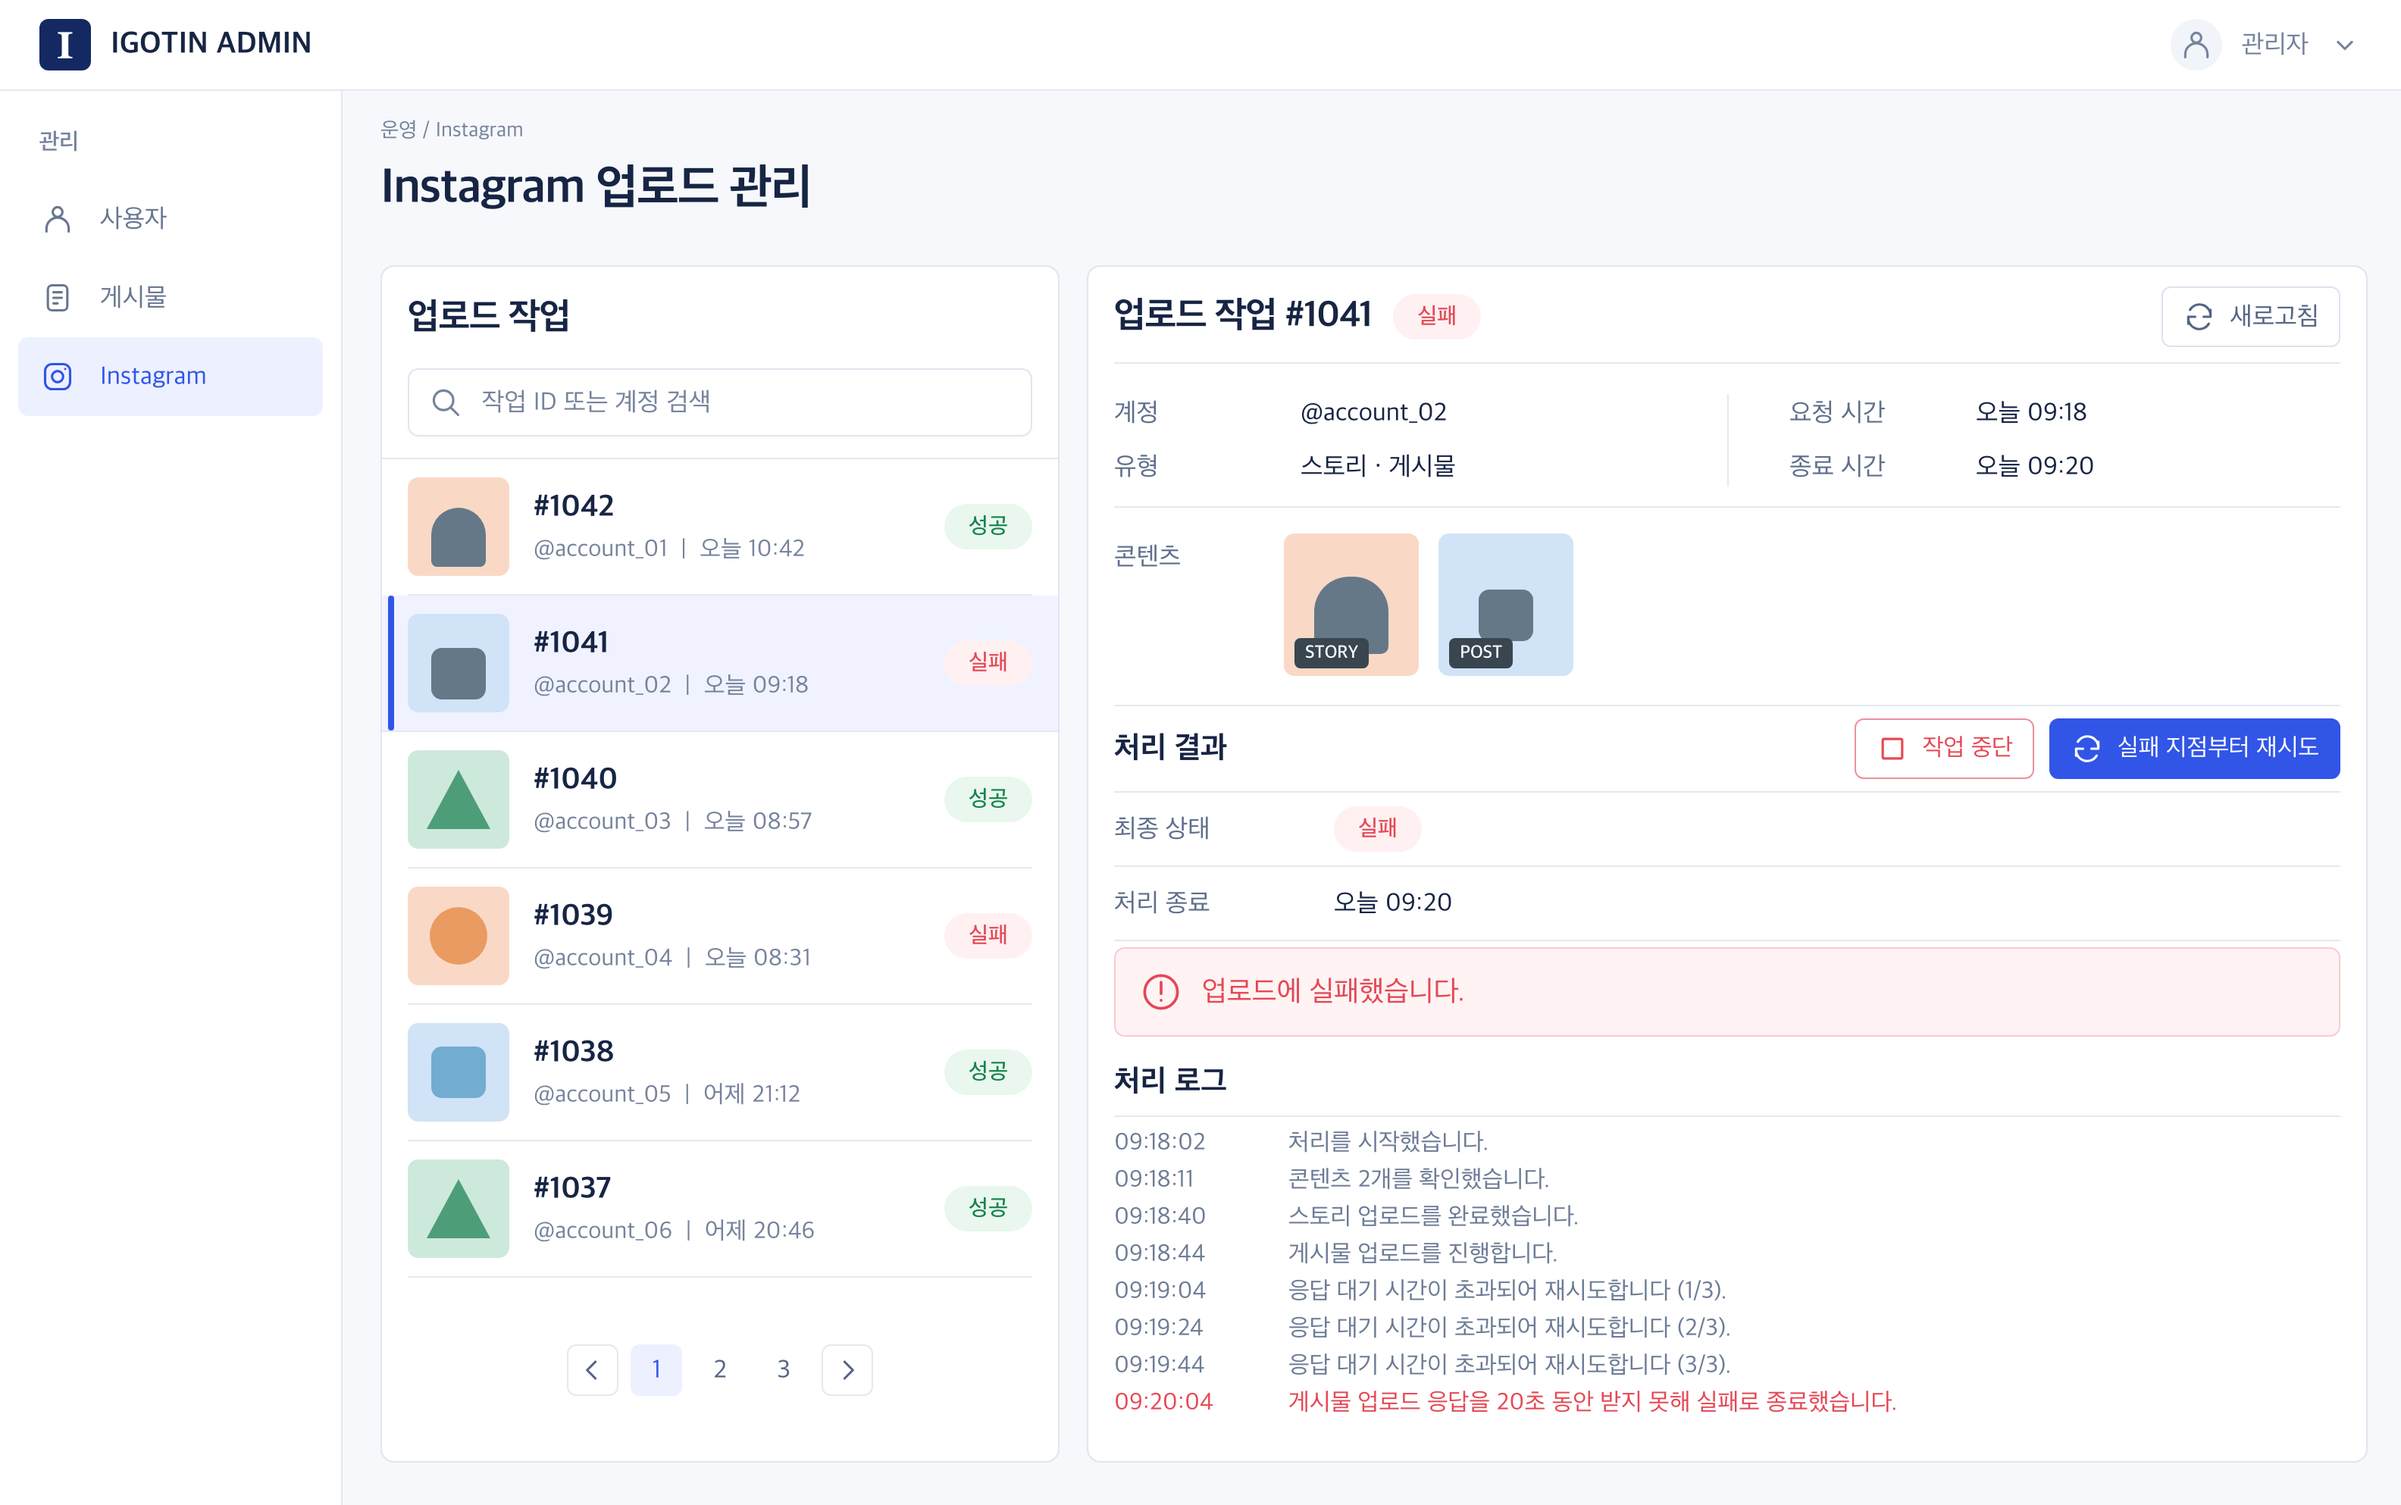
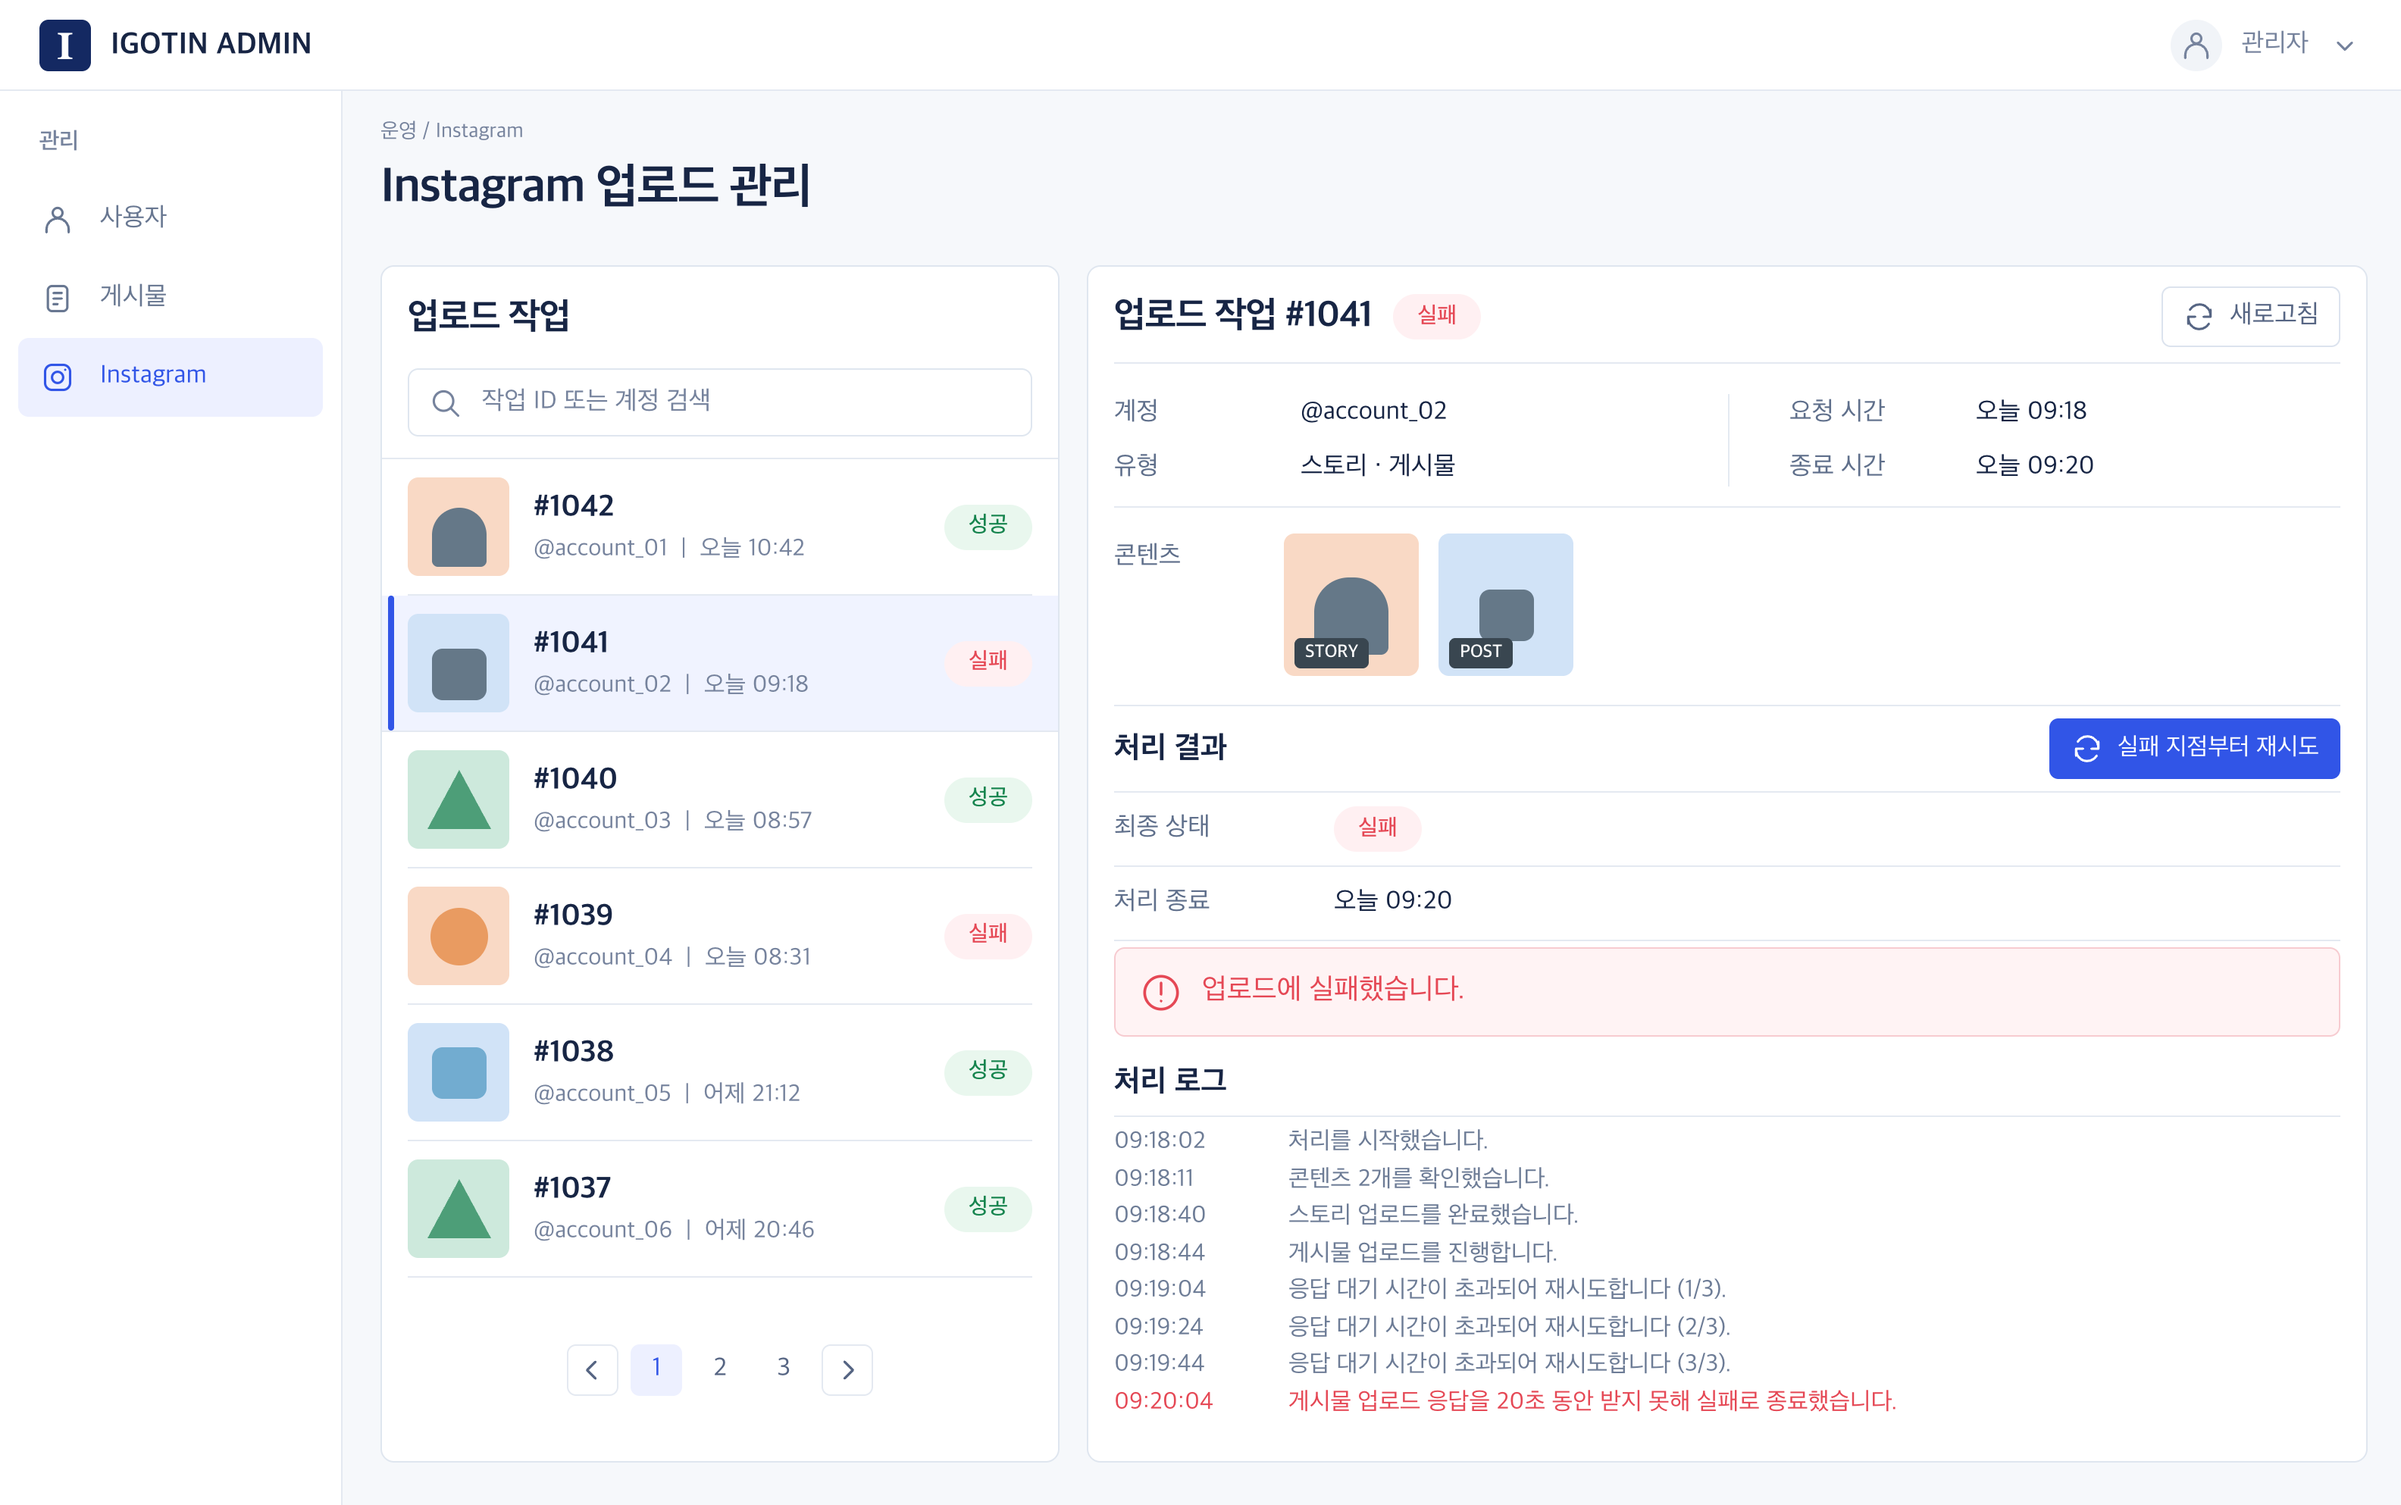
docs(profile): 소개와 포트폴리오 문구 및 Instagram 예시 정리

diff --git a/tools/portfolio/instagram-admin.html b/tools/portfolio/instagram-admin.html
@@ -69,7 +69,6 @@
     h3 { margin: 0; font-size: 20px; font-weight: 700; }
     .actions { display: flex; gap: 10px; }
     .actions button { font-size: 16px; }
-    .stop { color: var(--red); border-color: #ed9199; }
     .retry { color: #fff; border-color: var(--blue); background: var(--blue); }
     .result-row { display: grid; grid-template-columns: 145px 1fr; align-items: center; min-height: 49px; border-bottom: 1px solid var(--line); }
     .result-row .badge { justify-self: start; }
@@ -89,7 +88,6 @@
     <symbol id="instagram" viewBox="0 0 24 24"><rect x="3" y="3" width="18" height="18" rx="5"/><circle cx="12" cy="12" r="4"/><circle cx="17.5" cy="6.5" r=".8" fill="currentColor" stroke="none"/></symbol>
     <symbol id="search" viewBox="0 0 24 24"><circle cx="10.5" cy="10.5" r="7"/><path d="m16 16 5 5"/></symbol>
     <symbol id="refresh" viewBox="0 0 24 24"><path d="M20 7v5h-5M4 17v-5h5M5.2 7A8 8 0 0 1 20 12M4 12a8 8 0 0 0 14.8 5"/></symbol>
-    <symbol id="stop" viewBox="0 0 24 24"><rect x="5" y="5" width="14" height="14" rx="1"/></symbol>
     <symbol id="alert" viewBox="0 0 24 24"><circle cx="12" cy="12" r="10"/><path d="M12 6v7M12 17v.1"/></symbol>
     <symbol id="down" viewBox="0 0 24 24"><path d="m7 10 5 5 5-5"/></symbol>
     <symbol id="left" viewBox="0 0 24 24"><path d="m14 6-6 6 6 6"/></symbol>
@@ -109,7 +107,7 @@
         <div class="detail-head"><h2>업로드 작업 #1041</h2><span class="badge failure">실패</span><button><svg><use href="#refresh"/></svg>새로고침</button></div>
         <div class="metadata"><dl><dt>계정</dt><dd>@account_02</dd><dt>유형</dt><dd>스토리 · 게시물</dd></dl><dl><dt>요청 시간</dt><dd>오늘 09:18</dd><dt>종료 시간</dt><dd>오늘 09:20</dd></dl></div>
         <div class="content"><span class="content-label">콘텐츠</span><div class="previews"><div class="thumb peach"><span class="shape arch"></span><span class="preview-label">STORY</span></div><div class="thumb sky"><span class="shape"></span><span class="preview-label">POST</span></div></div></div>
-        <div class="section-head"><h3>처리 결과</h3><div class="actions after-only"><button class="stop"><svg><use href="#stop"/></svg>작업 중단</button><button class="retry"><svg><use href="#refresh"/></svg>실패 지점부터 재시도</button></div></div>
+        <div class="section-head"><h3>처리 결과</h3><div class="actions after-only"><button class="retry"><svg><use href="#refresh"/></svg>실패 지점부터 재시도</button></div></div>
         <div class="result-row"><dt>최종 상태</dt><span class="badge failure">실패</span></div><div class="result-row"><dt>처리 종료</dt><span>오늘 09:20</span></div>
         <div class="alert"><svg><use href="#alert"/></svg>업로드에 실패했습니다.</div>
         <section class="after-only"><h3 class="log-title">처리 로그</h3><div class="logs">

diff --git a/content/resume/_index.md b/content/resume/_index.md
@@ -42,7 +42,7 @@ template = "resume.html"
 <div class="resume-entry-content">
 
 - 북미 대학생 커뮤니티 <a href="https://www.linkedin.com/company/igotin">IGOTIN</a>에서 Kotlin과 Spring Boot 기반 백엔드 애플리케이션을 개발하고 AWS 환경에서 운영했습니다.
-- Instagram 업로드 자동화의 운영 문제를 제기하고 개선안 설계부터 배포까지 주도했습니다. 단일 HTTP 요청에 묶인 업로드를 `db-scheduler` 기반 단계별 백그라운드 작업으로 분리하고 상태 추적과 재시도, 중단 등 작업 제어 기능을 구현했습니다.
+- Instagram 업로드 자동화의 운영 문제를 제기하고 개선안 설계부터 배포까지 주도했습니다. 단일 HTTP 요청에 묶인 업로드를 `db-scheduler` 기반 단계별 백그라운드 작업으로 분리하고 상태 추적과 재시도 등 작업 제어 기능을 구현했습니다.
 - API와 DB의 병목을 추적하는 성능 진단 체계를 구축했습니다. MDC와 AWS Athena 기반 로그 분석을 도입하고, 이를 활용해 특정 채널 글쓰기 API의 p95 응답시간을 3,150ms에서 495ms로 단축했습니다.
 - 채팅 기능 확장에 대응해 Firestore 의존을 걷어내고 Redis Pub/Sub과 WebSocket 기반의 독립 채팅 인프라로 전환했습니다.
 

diff --git a/content/portfolio/igotin-admin.md b/content/portfolio/igotin-admin.md
@@ -17,6 +17,8 @@ return_anchor = "instagram"
 
 업로드 처리 백엔드 개선 전후의 상태 조회와 재시도 흐름을 비교한 예시 화면입니다.
 
+Instagram 계정 관리에 대해 궁금하다면 [IGOTIN 서비스 소개 페이지](@/portfolio/igotin.md)를 확인해 주세요.
+
 <div class="portfolio-gallery portfolio-gallery--stack portfolio-admin-screens">
 
 <figure class="portfolio-screenshot">
@@ -32,7 +34,7 @@ return_anchor = "instagram"
 <a href="/images/portfolio/portfolio-instagram-ui-after-v2.png" target="_blank" rel="noopener" aria-label="개선 후 예시 화면 원본 크기로 보기">
 <img src="/images/portfolio/portfolio-instagram-ui-after-v2.png" alt="Instagram 업로드 개선 후 단계별 상태와 오류 로그를 표시하는 관리자 화면 예시" width="1584" height="993">
 </a>
-<figcaption><em>HTML로 재구성한 예시 화면, 회사의 자료를 사용하지 않았습니다.</em><br>단계별 상태와 오류 로그를 확인, 작업 재시도/중단 가능</figcaption>
+<figcaption><em>HTML로 재구성한 예시 화면, 회사의 자료를 사용하지 않았습니다.</em><br>단계별 상태와 오류 로그를 확인, 작업 재시도 가능</figcaption>
 </figure>
 
 </div>

diff --git a/content/portfolio/igotin.md b/content/portfolio/igotin.md
@@ -19,8 +19,6 @@ return_anchor = "igotin"
 
 ## IGOTIN - 본딧커뮤니티
 
-[랜딩 페이지로 가기](https://www.igotin.app/)
-
 </div>
 </header>
 
@@ -32,7 +30,7 @@ return_anchor = "igotin"
 
 
 <figure class="portfolio-screenshot">
-<h6>Instagram 계정 예시</h6>
+<h6>Instagram 실제 계정 예시 (<a href="https://www.instagram.com/nyu2030__" target="_blank" rel="noopener noreferrer">@nyu2030__</a>, <a href="https://www.instagram.com/cornell2030__/" target="_blank" rel="noopener noreferrer">@cornell2030__</a>)</h6>
 <img src="/images/portfolio/igotin-instagram-account-example.png" alt="Instagram 계정에 게시된 학생 소개 예시" width="2912" height="1832">
 <figcaption>Instagram 계정에 게시된 학생 소개 예시</figcaption>
 </figure>
